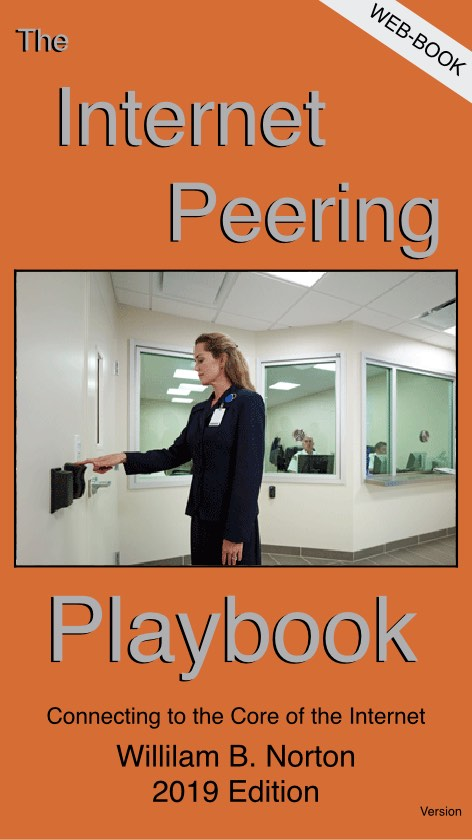
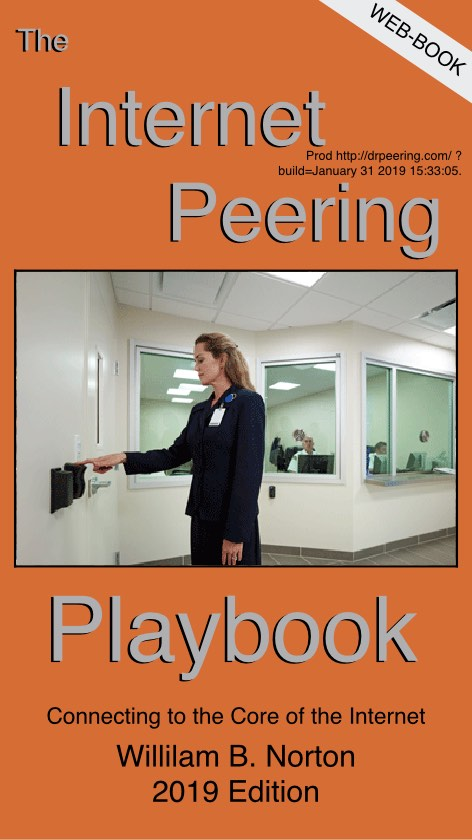
getting set up

Changed region(s): [[0.5932, 0.1548, 0.9788, 0.2167], [0.8898, 0.9595, 0.9788, 0.9905]]

diff --git a/index.html b/index.html
@@ -30,7 +30,6 @@ function check() {
 	// and remember the jqxhr object for this request
 	var jqxhr = $.get( "http://drpeering.com/updates.php", function(marker) {
 	  $(".version").text("Prod "+marker );
-	  setTimeout(check, 2000);
 	  if (currentPage == "" || currentPage == marker) {
 	  		$(".version").text("Prod "+marker );
 	  		currentPage=marker;
@@ -43,10 +42,11 @@ function check() {
 	    //alert( "second success" );
 	  })
 	  .fail(function() {
-		  $(".version").text("Test Mode");
+		  $(".version").text("disconnected Mode");
 	  })
 	  .always(function() {
 	    //alert( "finished" );
+    	  setTimeout(check, 2000);
 	  });
 	 
 	// Perform other work here ...
@@ -74,7 +74,7 @@ check();
 	<!-- copy these lines to your document: -->
 
 	<div id="index_hype_container" style="margin:auto;position:relative;width:100%;height:667px;overflow:hidden;">
-		<script type="text/javascript" charset="utf-8" src="index.hyperesources/index_hype_generated_script.js?52887"></script>
+		<script type="text/javascript" charset="utf-8" src="index.hyperesources/index_hype_generated_script.js?63777"></script>
 	</div>
 
 	<!-- end copy -->
